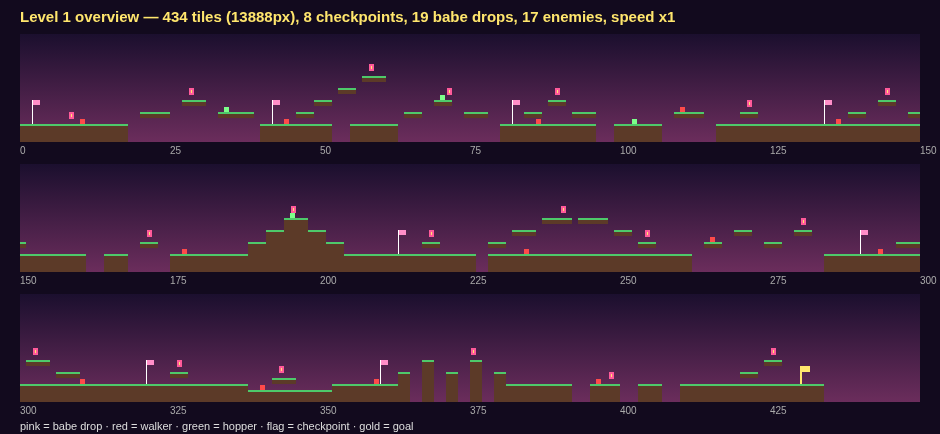
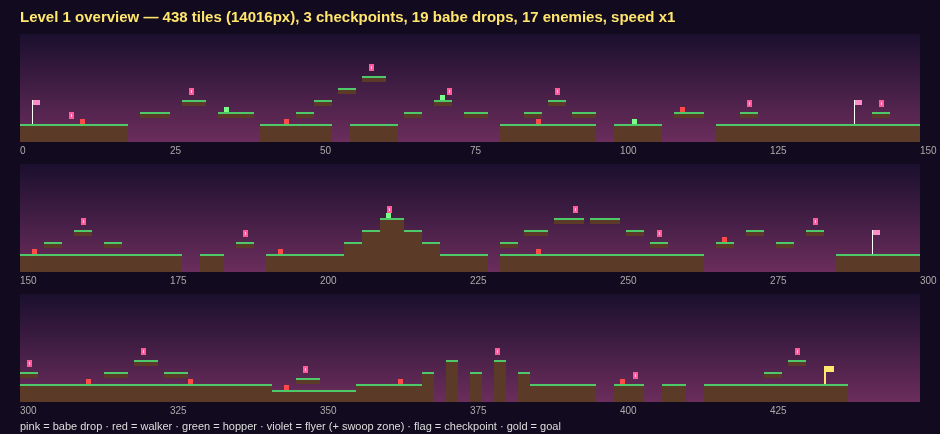
Checkpoints cut to start + 2 mid (~1/3, ~2/3) on safe ground; add Level 2 flyer enemy
- Mid checkpoints auto-placed near 1/3 and 2/3 of the run on solid ground, >=4 tiles from any enemy patrol
  (L1: 2,139,292; L2: 3,131,273); rest pads widened to 16 tiles and reordered to sit near those points
- FLYER (Level 2 only, 6 placed): patrol + sine bob, telegraphed gentle swoop toward a player below,
  never dips below a standing player's head; stomp = kill + bounce, other contact hurts; 2-frame bat-drone art

diff --git a/index.html b/index.html
@@ -1424,7 +1424,8 @@ const SECTIONS = {
     picks: [[15, 11]], enemies: [WK(9, 15, 8, 12, 45, 2), WK(21, 15, 19, 26, 70)], cps: [2] },
   staircase: { w: 28, plats: [G(0, 6), COL(6, 13, 3), COL(9, 11, 3), COL(12, 9, 4), COL(16, 11, 3), COL(19, 13, 3), G(22, 6)],
     picks: [[13, 7]], enemies: [HP(13, 9, 12, 16, 35, 1, 0.3), WK(24, 15, 22, 28, 60, 2)], cuts: [2] },
-  rest: { w: 14, plats: [G(0, 14), P(7, 13, 3)], picks: [[8, 11]], enemies: [], cps: [3] },
+  // breather pad (no enemies) — mid-level checkpoints land on these
+  rest: { w: 16, plats: [G(0, 16), P(10, 13, 3)], picks: [[11, 11]], enemies: [], cps: [3] },
   highRoad: { w: 34, plats: [G(0, 34), P(4, 13, 3), P(8, 11, 4), P(13, 9, 5), P(19, 9, 5), P(25, 11, 3), P(29, 13, 3)],
     picks: [[16, 7], [30, 11]], enemies: [WK(10, 15, 1, 33, 75), WK(24, 15, 1, 33, 70, 2), HP(21, 9, 19, 24, 30, 2, 0.8)], cuts: [2, 17] },
   zigzag: { w: 30, plats: [G(0, 4), P(6, 13, 3), P(11, 11, 3), P(16, 13, 3), P(21, 11, 3), G(26, 4)],
@@ -1453,11 +1454,14 @@ const DIFFICULTY = {
 };
 const LEVELS = [
   { id: 1, name: "Level 1", theme: "dusk", sections: [
-      "classic", "classicEnd", "meadow", "pitIslands", "staircase", "rest", "highRoad", "zigzag",
-      "arena", "rest", "valley", "towers", "doubleGap", "finale"] },
+      "classic", "classicEnd", "rest", "meadow", "pitIslands", "staircase", "highRoad", "zigzag",
+      "rest", "arena", "valley", "towers", "doubleGap", "finale"] },
   { id: 2, name: "Level 2", theme: "night", sections: [
-      "rest", "meadow", "bridge", "ladder", "rest", "towers", "gauntlet", "pitIslands", "highRoad",
-      "rest", "zigzag", "doubleGap", "arena", "valley", "staircase", "finale"] },
+      "rest", "meadow", "bridge", "ladder", "towers", "rest", "gauntlet", "pitIslands", "highRoad",
+      "zigzag", "rest", "doubleGap", "arena", "valley", "staircase", "finale"],
+    // Flyers: [section index, start x, patrol a, patrol b, base speed] — over open stretches only,
+    // hover height derived from the floor so walking underneath is always safe (see buildLevel)
+    flyers: [[1, 19, 16, 25, 45], [2, 10, 5, 17, 50], [6, 30, 27, 36, 50], [7, 22, 19, 26, 45], [12, 25, 23, 30, 55], [15, 2, 0, 5, 40]] },
 ];
 const LEVEL_THEMES = {
   dusk:  { sky: ["#1b0f2e", "#3a1a4a", "#6b2d5c"], hills: "#2a1538", dirt: "#5c3a28", grass: "#4ec96a", edge: "#3a8f4c" },
@@ -1473,16 +1477,24 @@ function spreadPick(arr, k) {
   return out;
 }
 
-const CP_MIN_GAP = 30;
+// Mid-level checkpoints: placed near these fractions of the start→goal run, on safe ground
+const CP_FRACTIONS = [1 / 3, 2 / 3];
+const CP_ENEMY_CLEAR = 4; // tiles kept clear of any enemy patrol range
+// Flyer motion envelope (px): hover band ± FLY_BOB, plus up to FLY_SWOOP lower while swooping.
+// The lowest point keeps FLY_HEAD_CLEAR px above a standing player's head on the highest floor nearby.
+const FLY_W = 26, FLY_H = 20, FLY_BOB = 8, FLY_SWOOP = 80, FLY_HEAD_CLEAR = 2;
+const FLY_RANGE = 150, FLY_TELL = 0.3, FLY_DIVE_V = 120, FLY_RISE_V = 70, FLY_HOLD = 0.45, FLY_COOL = 1.4;
+
 function buildLevel(def, diff) {
-  const plats = [], picks = [], slots = [], cps = [], cutSpots = [];
+  const plats = [], picks = [], slots = [], cps = [], cutSpots = [], offs = [];
   let ox = 0, goalX = null;
   for (const key of def.sections) {
+    offs.push(ox);
     const sec = SECTIONS[key];
     for (const [x, y, w, h] of sec.plats) if (w > 0) plats.push({ x: x + ox, y, w, h });
     for (const [x, y] of sec.picks || []) picks.push([x + ox, y]);
     for (const e of sec.enemies || []) slots.push(Object.assign({}, e, { x: e.x + ox, a: e.a + ox, b: e.b + ox }));
-    for (const c of sec.cps || []) cps.push(c + ox); // candidates, thinned below
+    for (const c of sec.cps || []) cps.push(c + ox); // only the first (start spawn) is used
     for (const c of sec.cuts || []) cutSpots.push(c + ox);
     if (sec.goal != null) goalX = sec.goal + ox;
     ox += sec.w;
@@ -1495,10 +1507,32 @@ function buildLevel(def, diff) {
   const target = Math.round(t1.length * diff.enemyCount);
   const chosen = target <= t1.length ? spreadPick(t1, target) : t1.concat(spreadPick(t2, target - t1.length));
   chosen.sort((a, b) => a.x - b.x);
-  // Checkpoints: keep candidates at least CP_MIN_GAP tiles apart (first one is the start)
+  // Flyers (explicit per level; not scaled by enemyCount). Hover from the highest floor under the patrol ±2 tiles.
+  const flyers = (def.flyers || []).map(([si, x, a, b, vx]) => {
+    const o = offs[si], A = a + o, B = b + o;
+    let floorTop = Infinity;
+    for (const p of plats) if (p.x < B + 2 && p.x + p.w > A - 2) floorTop = Math.min(floorTop, p.y * TILE);
+    const PH = 44; // PLAYER_H
+    const hoverY = floorTop - PH - FLY_HEAD_CLEAR - FLY_SWOOP - FLY_BOB - FLY_H;
+    return { type: "flyer", x: x + o, a: A, b: B, vx, tier: 1, hoverY, floorTop };
+  });
+  // Checkpoints: start spawn + one near each CP_FRACTIONS point, searched outward for safe ground:
+  // solid ground under [x-2, x+3], nothing low overhead, no enemy patrol within CP_ENEMY_CLEAR tiles
   cps.sort((a, b) => a - b);
-  const keptCps = [];
-  for (const c of cps) if (!keptCps.length || c - keptCps[keptCps.length - 1] >= CP_MIN_GAP) keptCps.push(c);
+  const startX = cps.length ? cps[0] : 2;
+  const endX = goalX != null ? goalX : width - 4;
+  const safeCp = x => plats.some(p => p.y === GROUND_Y && p.x <= x - 2 && p.x + p.w >= x + 3) &&
+    !plats.some(p => p.y < GROUND_Y && p.y >= GROUND_Y - 4 && p.x < x + 3 && p.x + p.w > x - 1) &&
+    !chosen.concat(flyers).some(e => x >= e.a - CP_ENEMY_CLEAR && x <= e.b + CP_ENEMY_CLEAR) &&
+    !keptPicks.some(([px]) => Math.abs(px - x) < 2);
+  const keptCps = [startX];
+  for (const f of CP_FRACTIONS) {
+    const target = Math.round(startX + (endX - startX) * f);
+    for (let d = 0; d < 80; d++) {
+      const x = [target + d, target - d].find(safeCp);
+      if (x != null) { keptCps.push(x); break; }
+    }
+  }
   // Pits: cut a 2-tile gap into a share of the marked ground spots (never under a pickup/enemy/flag)
   const blocked = x => keptPicks.some(([px]) => Math.abs(px - x) < 3) || chosen.some(e => Math.abs(e.x - x) < 3) ||
     keptCps.some(c => Math.abs(c - x) < 4) || (goalX != null && Math.abs(goalX - x) < 4);
@@ -1514,7 +1548,7 @@ function buildLevel(def, diff) {
   }
   return {
     id: def.id, name: def.name, theme: LEVEL_THEMES[def.theme] || LEVEL_THEMES.dusk, diff,
-    width, plats, picks: keptPicks, enemySlots: chosen, pits: cuts,
+    width, plats, picks: keptPicks, enemySlots: chosen.concat(flyers), pits: cuts,
     checkpoints: keptCps.map(x => ({ x: x * TILE, y: GROUND_Y * TILE })),
     goal: { x: (goalX != null ? goalX : width - 4) * TILE, y: 12 * TILE, w: 20, h: 96 },
   };
@@ -1560,6 +1594,11 @@ function enemyOnPlat(type, xTile, platY, w, h, extra) {
 function makeEnemies() {
   const sp = level.diff.enemySpeed;
   return level.enemySlots.map((e, i) => {
+    if (e.type === "flyer") {
+      return { type: "flyer", x: e.x * TILE, y: e.hoverY, w: FLY_W, h: FLY_H, vx: e.vx * sp, vy: 0, dir: i % 2 ? -1 : 1,
+        alive: true, minX: e.a * TILE, maxX: e.b * TILE, baseY: e.hoverY, t: i * 1.3, flap: i * 0.7,
+        mode: "patrol", modeT: 0, swoop: 0, cool: 0, prevX: e.x * TILE, prevY: e.hoverY };
+    }
     const hop = e.type === "hopper";
     return enemyOnPlat(e.type, e.x, e.y, hop ? 26 : 28, hop ? 26 : 28, {
       vx: e.vx * sp, dir: i % 2 ? -1 : 1, minX: e.a * TILE, maxX: e.b * TILE,
@@ -2164,6 +2203,8 @@ function updatePlay(dt) {
     e.prevX = e.x;
     e.prevY = e.y;
 
+    if (e.type === "flyer") updateFlyer(e, dt);
+    else {
     if (e.x < e.minX) { e.x = e.minX; e.dir = 1; }
     if (e.x + e.w > e.maxX) { e.x = e.maxX - e.w; e.dir = -1; }
 
@@ -2189,6 +2230,7 @@ function updatePlay(dt) {
         if (e.hopT > (e.hopEvery || 1.1)) { e.vy = -520; e.hopT = 0; }
       }
     }
+    } // walker / hopper
 
     if (!aabb(player, e)) continue;
 
@@ -2211,7 +2253,7 @@ function updatePlay(dt) {
       player.fromStomp = true;
       player.jumpBuf = 0;
       sfx.stomp();
-      spawnParticles(e.x + e.w/2, e.y + e.h/2, e.type === "hopper" ? "#7dff9a" : "#ff8a5b", 12);
+      spawnParticles(e.x + e.w/2, e.y + e.h/2, e.type === "hopper" ? "#7dff9a" : e.type === "flyer" ? "#b48cff" : "#ff8a5b", 12);
     } else {
       hurtPlayer(e.x + e.w/2);
     }
@@ -2246,6 +2288,80 @@ function updatePlay(dt) {
   const target = player.x - W * 0.38;
   cameraX += (target - cameraX) * Math.min(1, 6 * dt);
   cameraX = Math.max(0, Math.min(cameraX, LEVEL_W * TILE - W));
+}
+
+// Flyer: horizontal patrol + sine bob. When the player is near and below it hovers in place for a
+// short tell (fast flap, red eyes), dives gently toward them (never below head height on its floor),
+// holds, rises back and cools down. Stomp from above = kill + bounce; any other touch hurts.
+function updateFlyer(e, dt) {
+  e.t += dt;
+  e.flap += dt * (e.mode === "tell" ? 22 : 9);
+  const pcx = player.x + player.w / 2, ecx = e.x + e.w / 2;
+  const near = Math.abs(pcx - ecx) < FLY_RANGE && player.y + player.h / 2 > e.y + e.h / 2 && hearts > 0;
+  if (e.cool > 0) e.cool -= dt;
+  e.modeT += dt;
+  if (e.mode === "patrol") { if (near && e.cool <= 0) { e.mode = "tell"; e.modeT = 0; } }
+  else if (e.mode === "tell") { if (e.modeT >= FLY_TELL) { e.mode = "dive"; e.modeT = 0; } }
+  else if (e.mode === "dive") { if (e.swoop >= FLY_SWOOP - 0.5 || (!near && e.modeT > 0.3)) { e.mode = "hold"; e.modeT = 0; } }
+  else if (e.mode === "hold") { if (e.modeT >= FLY_HOLD) { e.mode = "rise"; e.modeT = 0; } }
+  else if (e.mode === "rise") { if (e.swoop <= 0.5) { e.swoop = 0; e.mode = "patrol"; e.cool = FLY_COOL; } }
+  const diving = e.mode === "dive" || e.mode === "hold";
+  const want = diving ? Math.min(FLY_SWOOP, Math.max(0, (player.y + player.h / 2) - (e.baseY + e.h / 2))) : 0;
+  const rate = e.mode === "dive" ? FLY_DIVE_V : FLY_RISE_V;
+  e.swoop += Math.sign(want - e.swoop) * Math.min(Math.abs(want - e.swoop), rate * dt);
+  let vx = e.vx * e.dir;
+  if (e.mode === "tell") vx = 0;
+  else if (diving) { const d = pcx - ecx; vx = Math.sign(d) * Math.min(e.vx, Math.abs(d) * 3); if (d) e.dir = Math.sign(d); }
+  e.x += vx * dt;
+  if (e.x < e.minX) { e.x = e.minX; e.dir = 1; }
+  if (e.x + e.w > e.maxX) { e.x = e.maxX - e.w; e.dir = -1; }
+  e.y = e.baseY + Math.sin(e.t * 2.4) * FLY_BOB + e.swoop;
+  e.vy = dt > 0 ? (e.y - e.prevY) / dt : 0;
+}
+
+// 13x10 pixel bat-drone, 2 flap frames (2px per pixel). W wing, w wing edge, B body, b belly, E eye, F fang
+const FLYER_FRAMES = [
+  ["w...........w",
+   "Ww.........wW",
+   "WWw.BBBBB.wWW",
+   ".WWBBBBBBBWW.",
+   "..BBEBBBEBB..",
+   "..BBBbbbBBB..",
+   "...BBbbbBB...",
+   "....BFBFB....",
+   ".............",
+   "............."],
+  [".............",
+   ".............",
+   "....BBBBB....",
+   "...BBBBBBB...",
+   ".wBBEBBBEBBw.",
+   "WWBBBbbbBBBWW",
+   "Ww.BBbbbBB.wW",
+   "w...BFBFB...w",
+   ".............",
+   "............."],
+];
+function drawFlyer(e) {
+  const tell = e.mode === "tell";
+  const pal = { W: "#5a3fb0", w: "#c3adff", B: "#8f6cf2", b: "#c9b8ff", E: tell ? "#ff4a6a" : "#5fe8ff", F: "#ffffff" };
+  const frame = FLYER_FRAMES[Math.floor(e.flap) % 2];
+  const shake = tell ? (Math.floor(e.modeT * 40) % 2 ? 1 : -1) : 0;
+  const ox = Math.round(e.x) + shake, oy = Math.round(e.y);
+  for (let r = 0; r < frame.length; r++) {
+    const row = frame[r];
+    for (let c = 0; c < row.length; c++) {
+      const col = pal[row[c]];
+      if (!col) continue;
+      ctx.fillStyle = col;
+      ctx.fillRect(ox + c * 2, oy + r * 2, 2, 2);
+    }
+  }
+  // soft shadow on the floor below so the swoop reads
+  if (e.mode !== "patrol") {
+    ctx.fillStyle = "rgba(0,0,0,0.18)";
+    ctx.fillRect(ox + 6, oy + e.h + 2, 14, 2);
+  }
 }
 
 function updateSlot(dt) {
@@ -2422,7 +2538,9 @@ function drawWorld() {
   // enemies
   for (const e of enemies) {
     if (!e.alive || e.x + e.w < viewL || e.x > viewR) continue;
-    if (e.type === "walker") {
+    if (e.type === "flyer") {
+      drawFlyer(e);
+    } else if (e.type === "walker") {
       ctx.fillStyle = "#e85d4c";
       roundRect(e.x, e.y, e.w, e.h, 4);
       ctx.fill();
@@ -3436,7 +3554,13 @@ function renderLevelOverview(n) {
       g.fillStyle = th.grass; g.fillRect(ox + p.x * S, oy + p.y * S, p.w * S, 2);
     }
     for (const [tx, ty] of L.picks) { g.fillStyle = "#ff5a9a"; g.fillRect(ox + tx * S + 1, oy + ty * S, 5, 7); g.fillStyle = "#ffe66d"; g.fillRect(ox + tx * S + 3, oy + ty * S + 2, 1, 3); }
-    for (const e of L.enemySlots) { g.fillStyle = e.type === "hopper" ? "#7cff8a" : "#ff4a4a"; g.fillRect(ox + e.x * S, oy + (e.y - 1) * S + 1, 5, 5); }
+    for (const e of L.enemySlots) {
+      if (e.type === "flyer") { // patrol band + body
+        g.fillStyle = "rgba(180,140,255,0.25)"; g.fillRect(ox + e.a * S, oy + (e.hoverY - FLY_BOB) / TILE * S, (e.b - e.a) * S, (FLY_BOB * 2 + FLY_SWOOP + FLY_H) / TILE * S);
+        g.fillStyle = "#b48cff"; g.fillRect(ox + e.x * S, oy + e.hoverY / TILE * S, 6, 4); continue;
+      }
+      g.fillStyle = e.type === "hopper" ? "#7cff8a" : "#ff4a4a"; g.fillRect(ox + e.x * S, oy + (e.y - 1) * S + 1, 5, 5);
+    }
     for (const c of L.checkpoints) { const cx = ox + c.x / TILE * S; g.fillStyle = "#fff"; g.fillRect(cx, oy + 11 * S, 1, 4 * S); g.fillStyle = "#ff8ec8"; g.fillRect(cx + 1, oy + 11 * S, 7, 5); }
     const gx = ox + L.goal.x / TILE * S; g.fillStyle = "#ffe66d"; g.fillRect(gx, oy + 12 * S, 2, 3 * S); g.fillRect(gx + 2, oy + 12 * S, 8, 6);
     g.restore();
@@ -3444,7 +3568,7 @@ function renderLevelOverview(n) {
     for (let t = r * ROW; t <= Math.min(L.width, (r + 1) * ROW); t += 25) g.fillText(String(t), ox + t * S, oy + rowH + 12);
   }
   g.fillStyle = "#ddd"; g.font = "11px sans-serif";
-  g.fillText("pink = babe drop · red = walker · green = hopper · flag = checkpoint · gold = goal", 20, cv.height - 4);
+  g.fillText("pink = babe drop · red = walker · green = hopper · violet = flyer (+ swoop zone) · flag = checkpoint · gold = goal", 20, cv.height - 4);
   return cv.toDataURL("image/png");
 }
 
@@ -3518,6 +3642,8 @@ window.__HBC = {
   getLevel: () => ({ num: levelNum, name: level.name, width: level.width, diff: level.diff, pits: level.pits,
     platforms: platforms.map(p => ({ ...p })), checkpoints: checkpoints.map(c => ({ ...c })), goal: { ...goal },
     picks: level.picks.slice(), enemySlots: level.enemySlots.map(e => ({ ...e })), checkpointIdx,
+    flyerEnvelopes: level.enemySlots.filter(e => e.type === "flyer").map(e => ({ minX: e.a * TILE, maxX: e.b * TILE, top: e.hoverY - FLY_BOB, bottom: e.hoverY + FLY_BOB + FLY_SWOOP + FLY_H, floorTop: e.floorTop })),
+    fly: { FLY_W, FLY_H, FLY_BOB, FLY_SWOOP, FLY_RANGE, FLY_TELL, FLY_DIVE_V, FLY_RISE_V, FLY_HOLD, FLY_COOL },
     TILE, LEVEL_H, physics: { GRAV, MOVE_ACC, MOVE_MAX, FRICTION, JUMP_V, JUMP_CUT, PLAYER_W, PLAYER_H } }),
   getLevelDefs: () => LEVELS.map(d => d.id),
   getProgress: () => ({ ...progress }),
